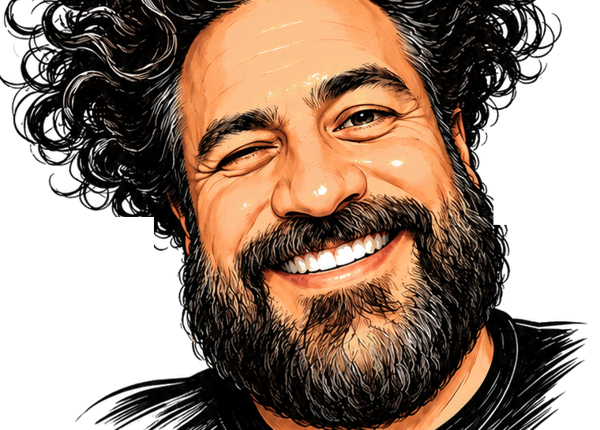
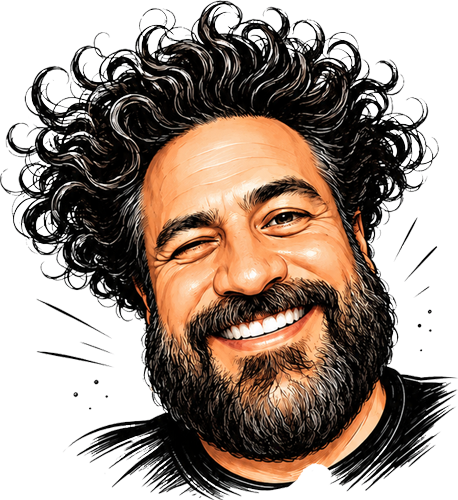
Update Lalo portrait (v0.6.5)

diff --git a/Docs/ingredientx-plan.md b/Docs/ingredientx-plan.md
@@ -13,7 +13,7 @@ seasoning, lemon pepper, onion and garlic.
 
 ## Versioning
 
-Major.Minor.Patch from `package.json`, shown in a small footer. Current: 0.6.4.
+Major.Minor.Patch from `package.json`, shown in a small footer. Current: 0.6.5.
 
 ## Site
 
